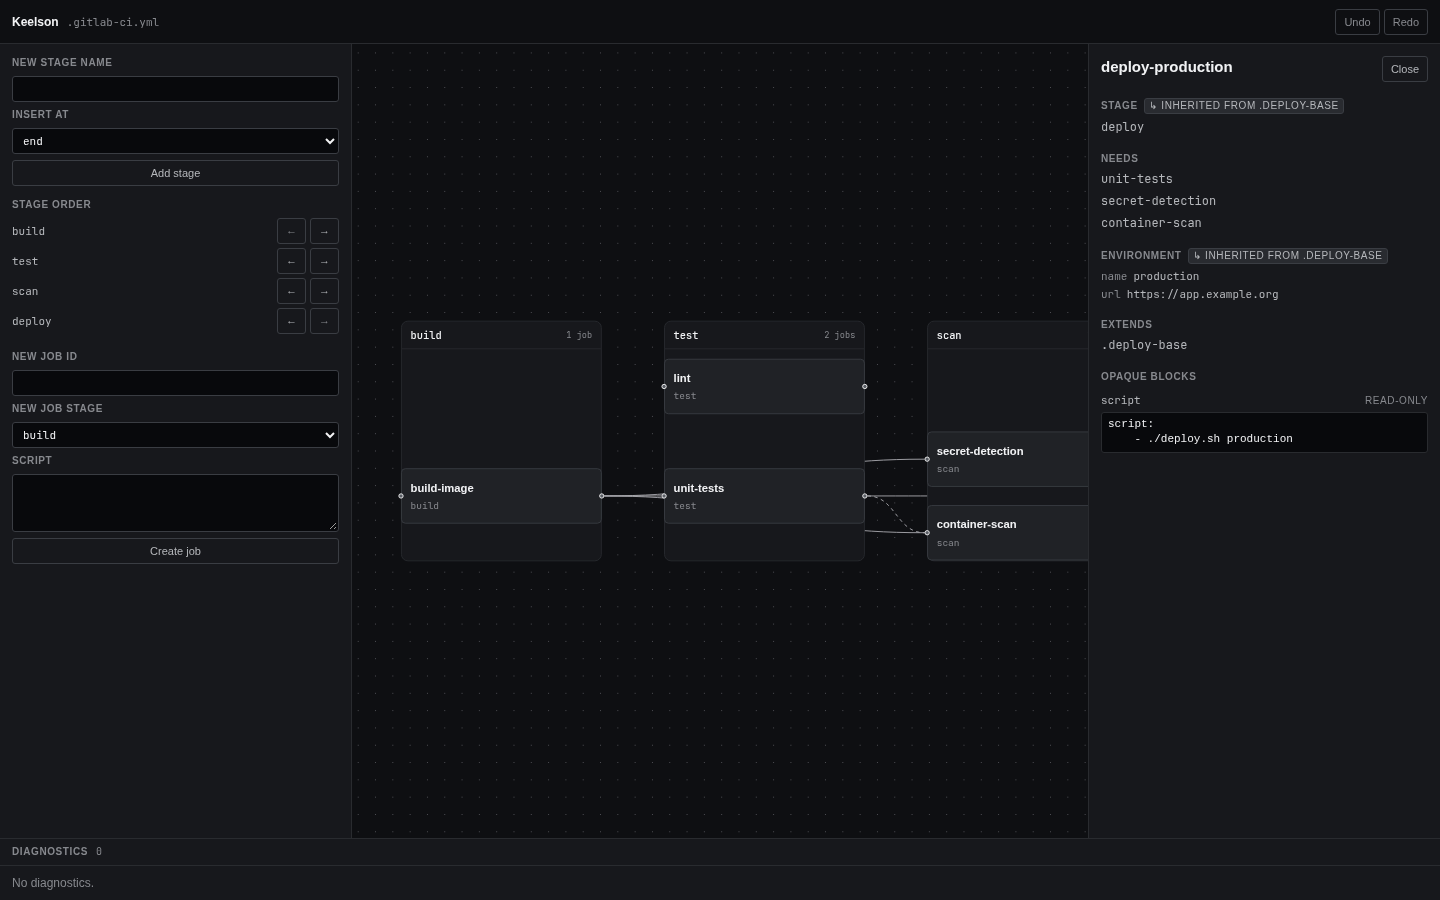
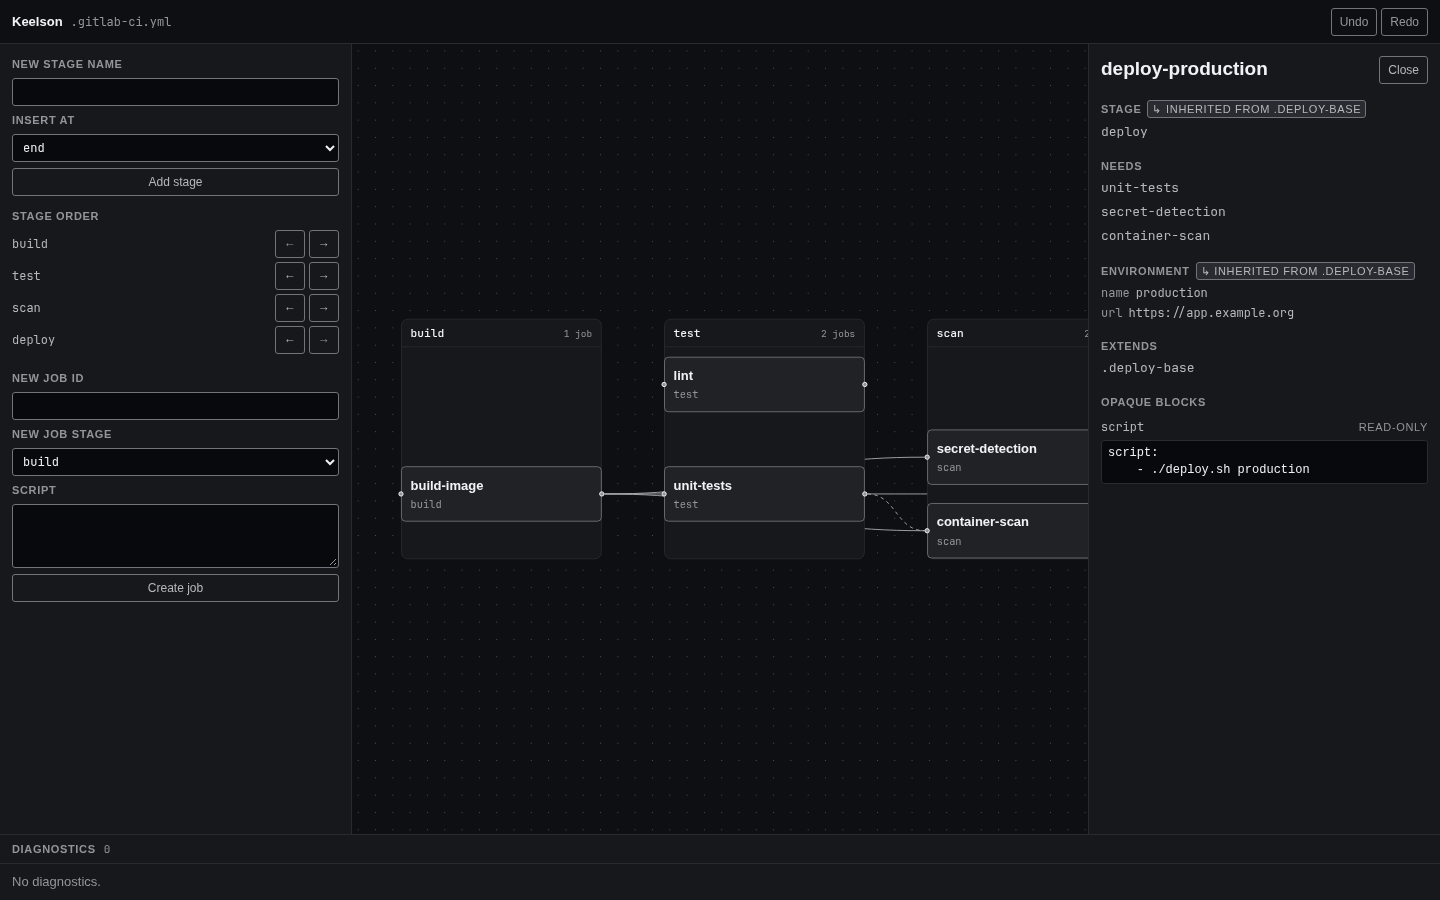
fix: contraste WCAG 2.1 AA et plancher de taille de texte (B)
Passe /impeccable audit. PRODUCT.md engage WCAG 2.1 AA sans reserve ;
deux manquements sont corriges, avec leur garde de non-regression.

1.4.11 — border-default bordait chaque champ, select, bouton, tag et
noeud non selectionne a 1,63:1 sur surface-1, quand le seuil des
limites de composants est 3:1. Releve a L=0.56, il tient 3:1 jusqu'a
surface-3 ; border-strong suit a 0.66 pour rester au-dessus.

1.4.3 — text-muted sur surface-3 donnait 4,03:1 quand le seuil texte
est 4,5:1. Or surface-3 est le fond qu'un noeud prend au survol et a
la selection : interagir avec un noeud rendait son texte moins
lisible. Releve a L=0.67.

Plancher de texte — --text-2xs a 10px expliquait a lui seul 12 des 14
constats releves en page, par ses 16 points d'appel. La rampe etait
par ailleurs tassee sur 10/11/12/13, soit 1,3:1 sur la page rendue.
Plancher a 11px et degres ecartes : 11/12/13/15/19. --text-xl, defini
et consomme nulle part, est retire.

Deux gardes ajoutes a tokens.test.ts : contraste de chaque paire
texte/surface et limite/surface documentee, et taille minimale de
chaque degre de la rampe. Les cinq echecs attendus ont ete constates
rouges avant correction.

945 pass / 0 fail. detect.mjs rend toujours 0.

diff --git a/packages/ui/test/tokens.test.ts b/packages/ui/test/tokens.test.ts
@@ -85,3 +85,92 @@ describe("aucune valeur de design en dur hors du fichier de tokens", () => {
     expect(sourceFiles(sourceRoot).length).toBeGreaterThan(3);
   });
 });
+
+describe("contraste WCAG 2.1 AA", () => {
+  /** `PRODUCT.md` engage WCAG 2.1 AA sans réserve, et le surface brief le répète. La passe
+   *  /impeccable audit du 2026-10-22 a trouvé deux manquements : `border-default` bordait chaque
+   *  champ, select, bouton, tag et nœud non sélectionné à 1,63:1 sur `surface-1` quand 1.4.11 exige
+   *  3:1 ; et `text-muted` sur `surface-3` donnait 4,03:1 quand 1.4.3 exige 4,5:1 — or `surface-3`
+   *  est précisément le fond qu'un nœud prend au survol et à la sélection, de sorte qu'interagir
+   *  avec un nœud rendait son texte moins lisible. Ce test est le garde de non-régression. */
+  const TOKENS = new Map(
+    [
+      ...readFileSync(join(sourceRoot, TOKENS_FILE), "utf8").matchAll(/(--[\w-]+):\s*([^;]+);/g),
+    ].map((match) => [match[1] as string, (match[2] as string).trim()]),
+  );
+
+  /** Oklch achromatique : la luminance relative suit L³ d'assez près pour un garde de rampe. */
+  function luminance(token: string): number {
+    const value = TOKENS.get(token);
+    if (value === undefined) {
+      throw new Error(`token absent de tokens.css : ${token}`);
+    }
+    const lightness = /oklch\(\s*([\d.]+)/.exec(value)?.[1];
+    if (lightness === undefined) {
+      throw new Error(`${token} n'est pas une couleur oklch : ${value}`);
+    }
+    return Number(lightness) ** 3;
+  }
+
+  function contrast(foreground: string, background: string): number {
+    const [light, dark] = [luminance(foreground), luminance(background)].sort((a, b) => b - a);
+    return (Number(light) + 0.05) / (Number(dark) + 0.05);
+  }
+
+  const SURFACES = ["--color-surface-0", "--color-surface-1", "--color-surface-2"];
+
+  describe("1.4.11 — limites des composants d'interface, 3:1", () => {
+    for (const surface of [...SURFACES, "--color-surface-3"]) {
+      test(`border-default sur ${surface.replace("--color-", "")}`, () => {
+        expect({
+          pair: surface,
+          ratio: Math.round(contrast("--color-border-default", surface) * 100) / 100,
+          meets: contrast("--color-border-default", surface) >= 3,
+        }).toMatchObject({ pair: surface, meets: true });
+      });
+    }
+
+    test("accent, qui porte la bordure d'un nœud sélectionné", () => {
+      expect(contrast("--color-accent", "--color-surface-3")).toBeGreaterThanOrEqual(3);
+    });
+  });
+
+  describe("1.4.3 — texte, 4,5:1", () => {
+    // `surface-3` est inclus : c'est le fond d'un nœud survolé ou sélectionné, où `text-muted`
+    // porte le nom du stage.
+    for (const surface of [...SURFACES, "--color-surface-3"]) {
+      for (const text of ["--color-text-primary", "--color-text-secondary", "--color-text-muted"]) {
+        test(`${text.replace("--color-text-", "")} sur ${surface.replace("--color-", "")}`, () => {
+          expect({
+            pair: `${text} / ${surface}`,
+            ratio: Math.round(contrast(text, surface) * 100) / 100,
+            meets: contrast(text, surface) >= 4.5,
+          }).toMatchObject({ pair: `${text} / ${surface}`, meets: true });
+        });
+      }
+    }
+  });
+});
+
+describe("plancher de taille de texte", () => {
+  /** Le détecteur Impeccable refuse le texte fonctionnel sous 11px. `--text-2xs: 10px` expliquait
+   *  à lui seul 12 des 14 constats relevés en page le 2026-10-22, par ses 16 points d'appel. */
+  const sizes = [
+    ...readFileSync(join(sourceRoot, TOKENS_FILE), "utf8").matchAll(/(--text-[\w-]+):\s*(\d+)px;/g),
+  ]
+    .filter(([, name]) => name !== undefined && !name.includes("line-height"))
+    .map(([, name, value]) => ({ name: name as string, px: Number(value) }));
+
+  test("la rampe est déclarée", () => {
+    expect(sizes.length).toBeGreaterThan(0);
+  });
+
+  for (const size of sizes) {
+    test(`${size.name} est au moins à 11px`, () => {
+      expect({ token: size.name, px: size.px, meets: size.px >= 11 }).toMatchObject({
+        token: size.name,
+        meets: true,
+      });
+    });
+  }
+});

diff --git a/packages/ui/src/tokens.css b/packages/ui/src/tokens.css
@@ -11,15 +11,17 @@
   --color-surface-3: oklch(0.29 0.009 265);
   --color-surface-inset: oklch(0.14 0.006 265);
 
-  /* Borders. Default carries structure, subtle separates, strong marks focus boundaries. */
+  /* Borders. Default carries structure, subtle separates, strong marks focus boundaries.
+     Default et strong tiennent 3:1 jusqu'a surface-3 (WCAG 1.4.11) : ils bordent des composants
+     d'interface, pas de la decoration. `subtle` reste decoratif et n'est pas soumis au seuil. */
   --color-border-subtle: oklch(0.29 0.008 265);
-  --color-border-default: oklch(0.36 0.01 265);
-  --color-border-strong: oklch(0.48 0.012 265);
+  --color-border-default: oklch(0.56 0.01 265);
+  --color-border-strong: oklch(0.66 0.012 265);
 
   /* Text. */
   --color-text-primary: oklch(0.96 0.003 265);
   --color-text-secondary: oklch(0.78 0.006 265);
-  --color-text-muted: oklch(0.63 0.008 265);
+  --color-text-muted: oklch(0.67 0.008 265);
   --color-text-on-accent: oklch(0.17 0.006 265);
 
   /* The single accent. */
@@ -39,18 +41,19 @@
   --font-sans: ui-sans-serif, system-ui, -apple-system, "Segoe UI", Roboto, sans-serif;
   --font-mono: ui-monospace, "SF Mono", "JetBrains Mono", Menlo, Consolas, monospace;
 
-  --text-2xs: 10px;
-  --text-2xs--line-height: 14px;
-  --text-xs: 11px;
-  --text-xs--line-height: 16px;
-  --text-sm: 12px;
-  --text-sm--line-height: 18px;
-  --text-base: 13px;
-  --text-base--line-height: 20px;
-  --text-lg: 15px;
-  --text-lg--line-height: 22px;
-  --text-xl: 19px;
-  --text-xl--line-height: 26px;
+  /* Rampe. Plancher a 11px : en dessous, le texte fonctionnel n'est plus lisible a densite
+     d'expert. Les degres etaient tasses sur 10/11/12/13, soit un rapport de 1,3:1 sur la page
+     rendue — une hierarchie que l'oeil ne lit pas. Ils sont ecartes. */
+  --text-2xs: 11px;
+  --text-2xs--line-height: 16px;
+  --text-xs: 12px;
+  --text-xs--line-height: 18px;
+  --text-sm: 13px;
+  --text-sm--line-height: 20px;
+  --text-base: 15px;
+  --text-base--line-height: 22px;
+  --text-lg: 19px;
+  --text-lg--line-height: 26px;
 
   --font-weight-normal: 400;
   --font-weight-medium: 500;
